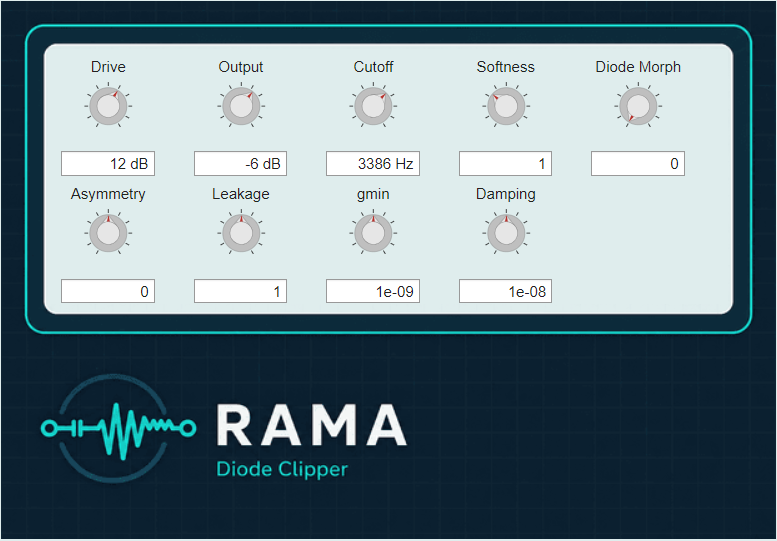
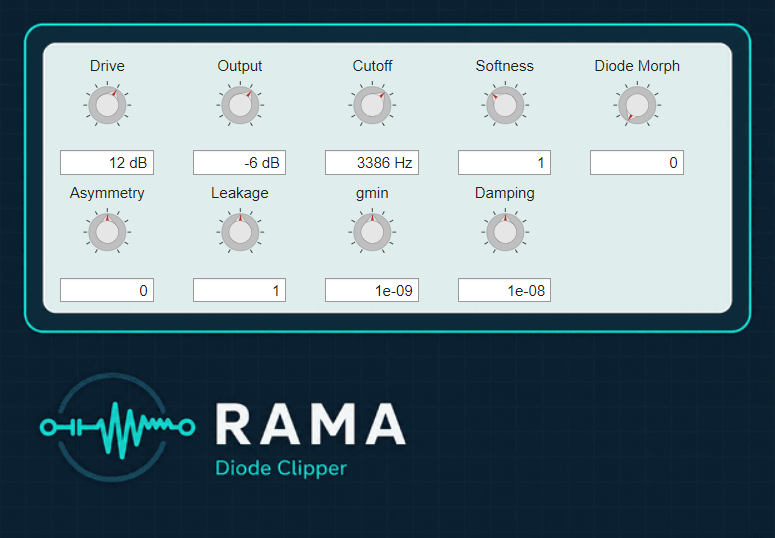
Fix vst-screenshot visualization

diff --git a/index.html b/index.html
@@ -341,12 +341,12 @@
                alt="RAMA Diode Clipper VST plugin interface"
                loading="lazy"
                onerror="this.hidden=true;this.nextElementSibling.removeAttribute('hidden')" />
-          <div class="vst-ph" hidden>
+          <!-- <div class="vst-ph" hidden>
             <svg width="36" height="36" viewBox="0 0 24 24" fill="none" stroke="currentColor" stroke-width="1.2" aria-hidden="true" style="color:var(--border-muted)"><rect x="2" y="3" width="20" height="14" rx="2"/><line x1="8" y1="21" x2="16" y2="21"/><line x1="12" y1="17" x2="12" y2="21"/></svg>
             <p style="margin:0.5rem 0 0.15rem;color:var(--text-secondary);font-size:0.82rem;">Plugin screenshot</p>
             <code>assets/figures/vst-screenshot.png</code>
             <small>Will appear here once the UI design is finalized</small>
-          </div>
+          </div> -->
         </div>
         <div class="vst-statusbar">
           RAMA_DiodeClipper.dll &nbsp;·&nbsp; VST3 &nbsp;·&nbsp; 44.1 / 48 kHz